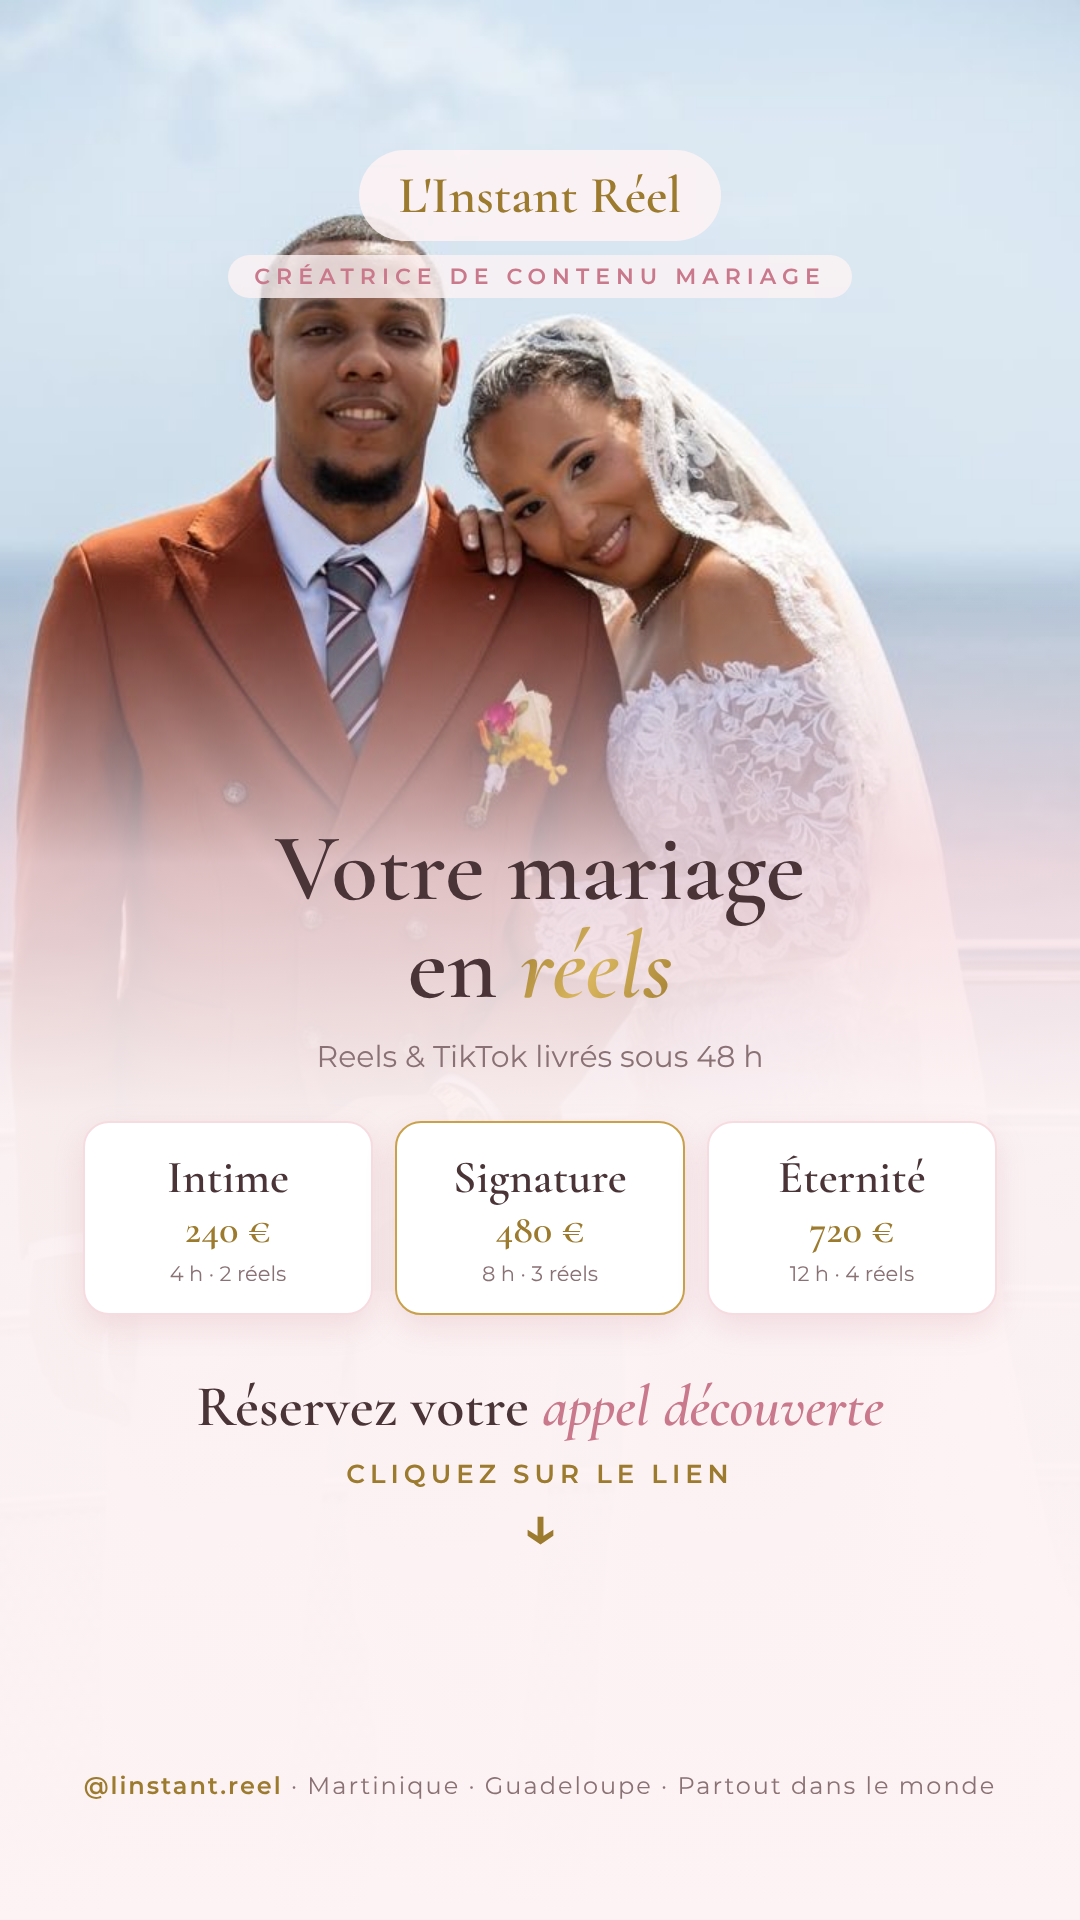
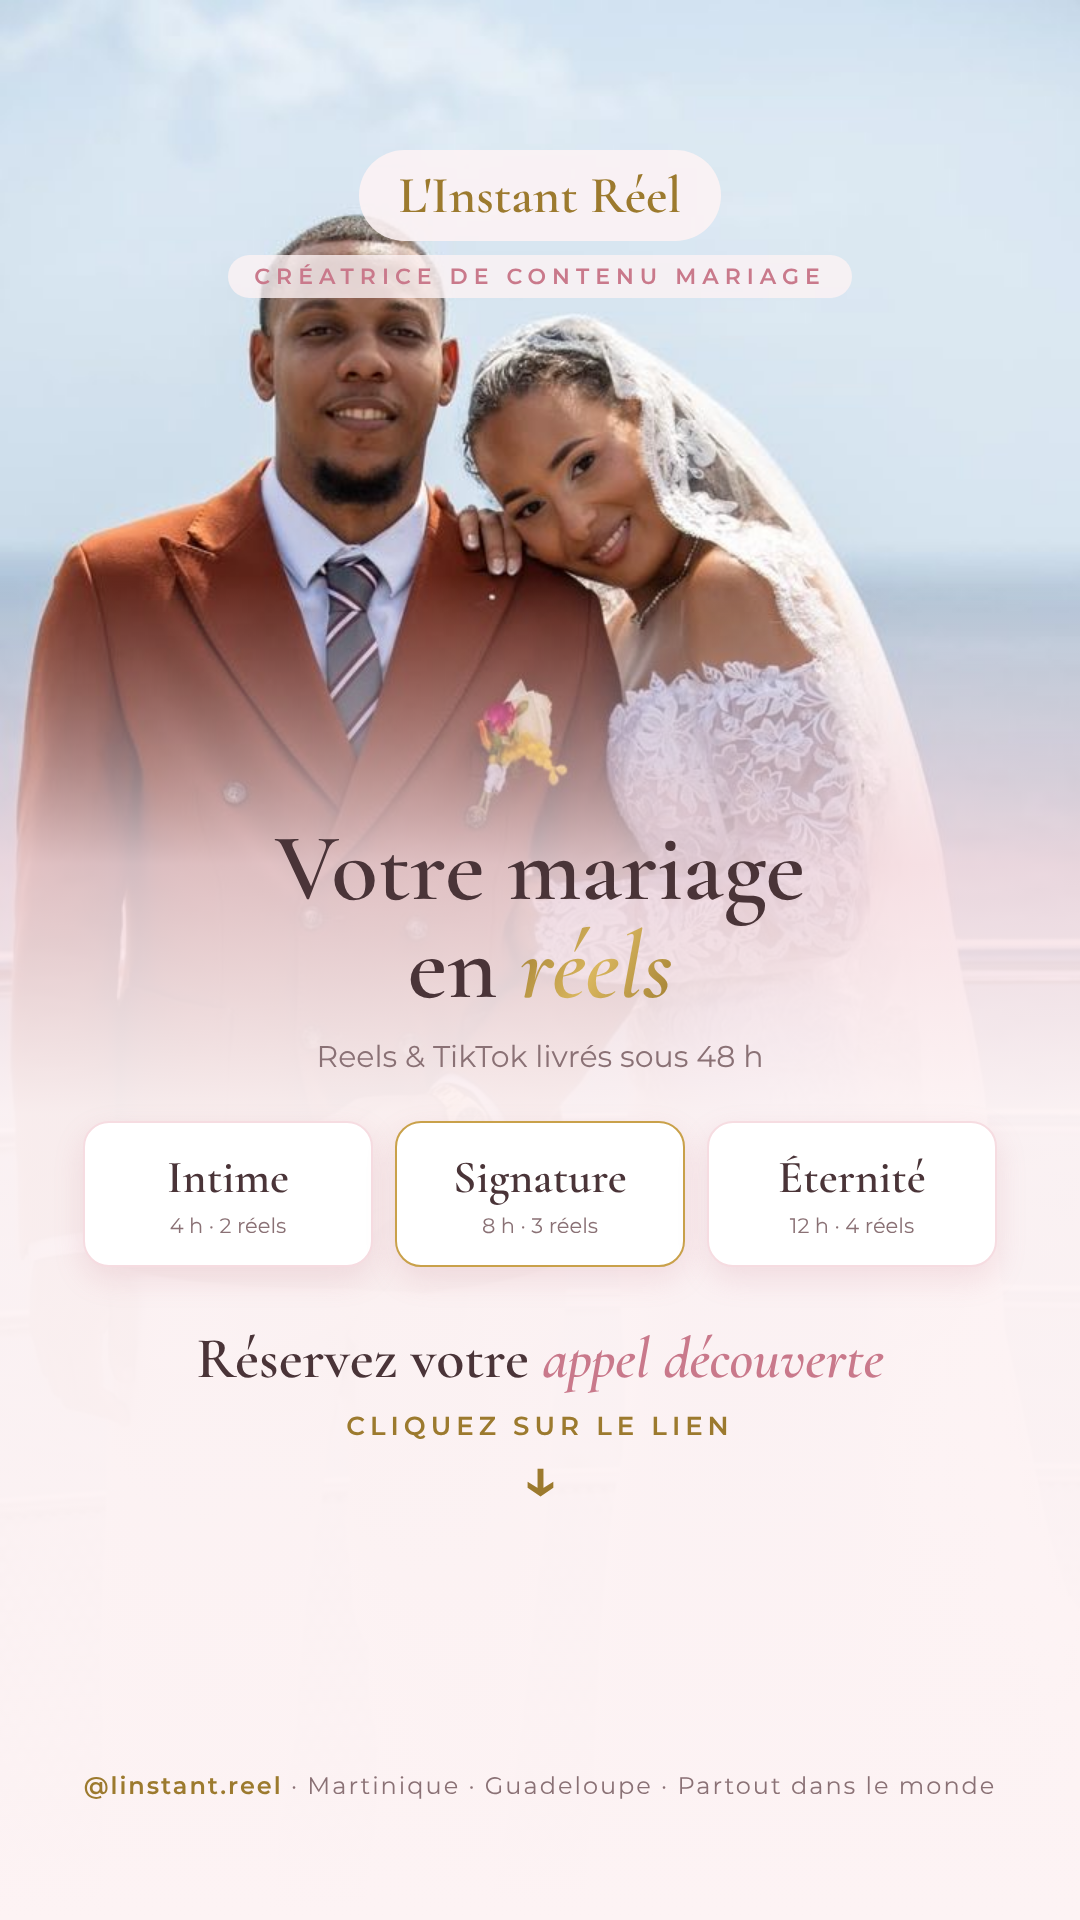
Story : retirer les prix
Claude-Session: https://claude.ai/code/session_01Uap5tHVboAH2z1eJ1dmVk2

Changed region(s): [[0.0917, 0.625, 0.9167, 0.8125]]

diff --git a/story/story.html b/story/story.html
@@ -83,17 +83,14 @@
             <div class="collections">
                 <div class="col">
                     <div class="nom">Intime</div>
-                    <div class="prix">240 €</div>
                     <div class="det">4 h · 2 réels</div>
                 </div>
                 <div class="col star">
                     <div class="nom">Signature</div>
-                    <div class="prix">480 €</div>
                     <div class="det">8 h · 3 réels</div>
                 </div>
                 <div class="col">
                     <div class="nom">Éternité</div>
-                    <div class="prix">720 €</div>
                     <div class="det">12 h · 4 réels</div>
                 </div>
             </div>
